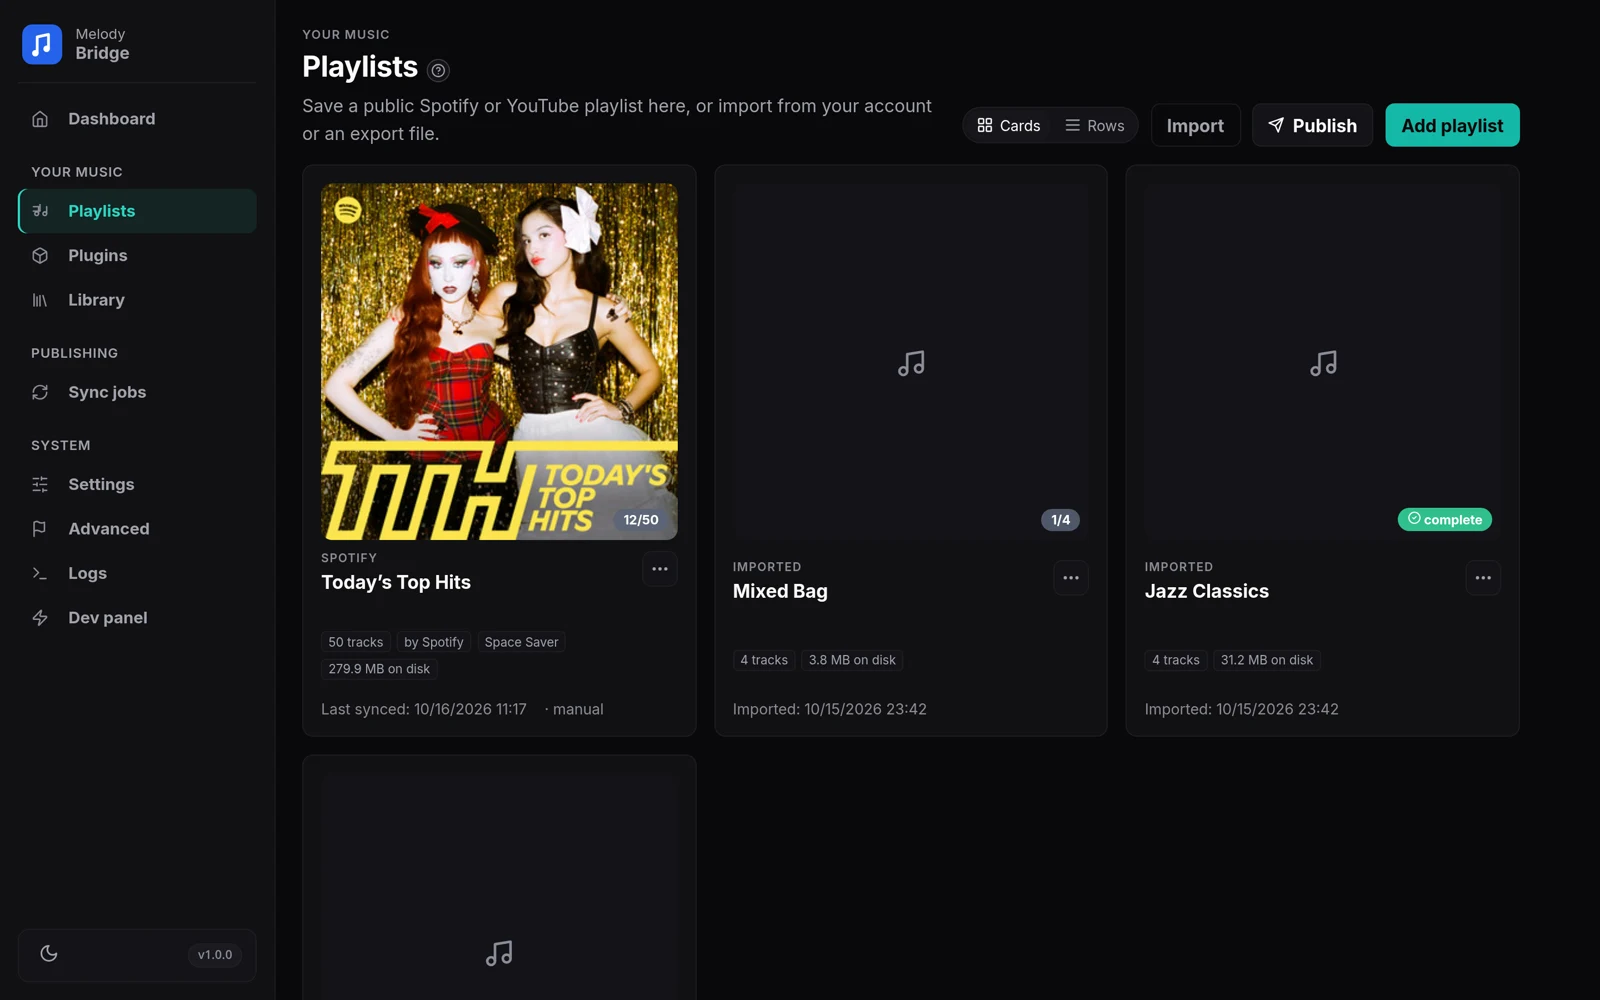
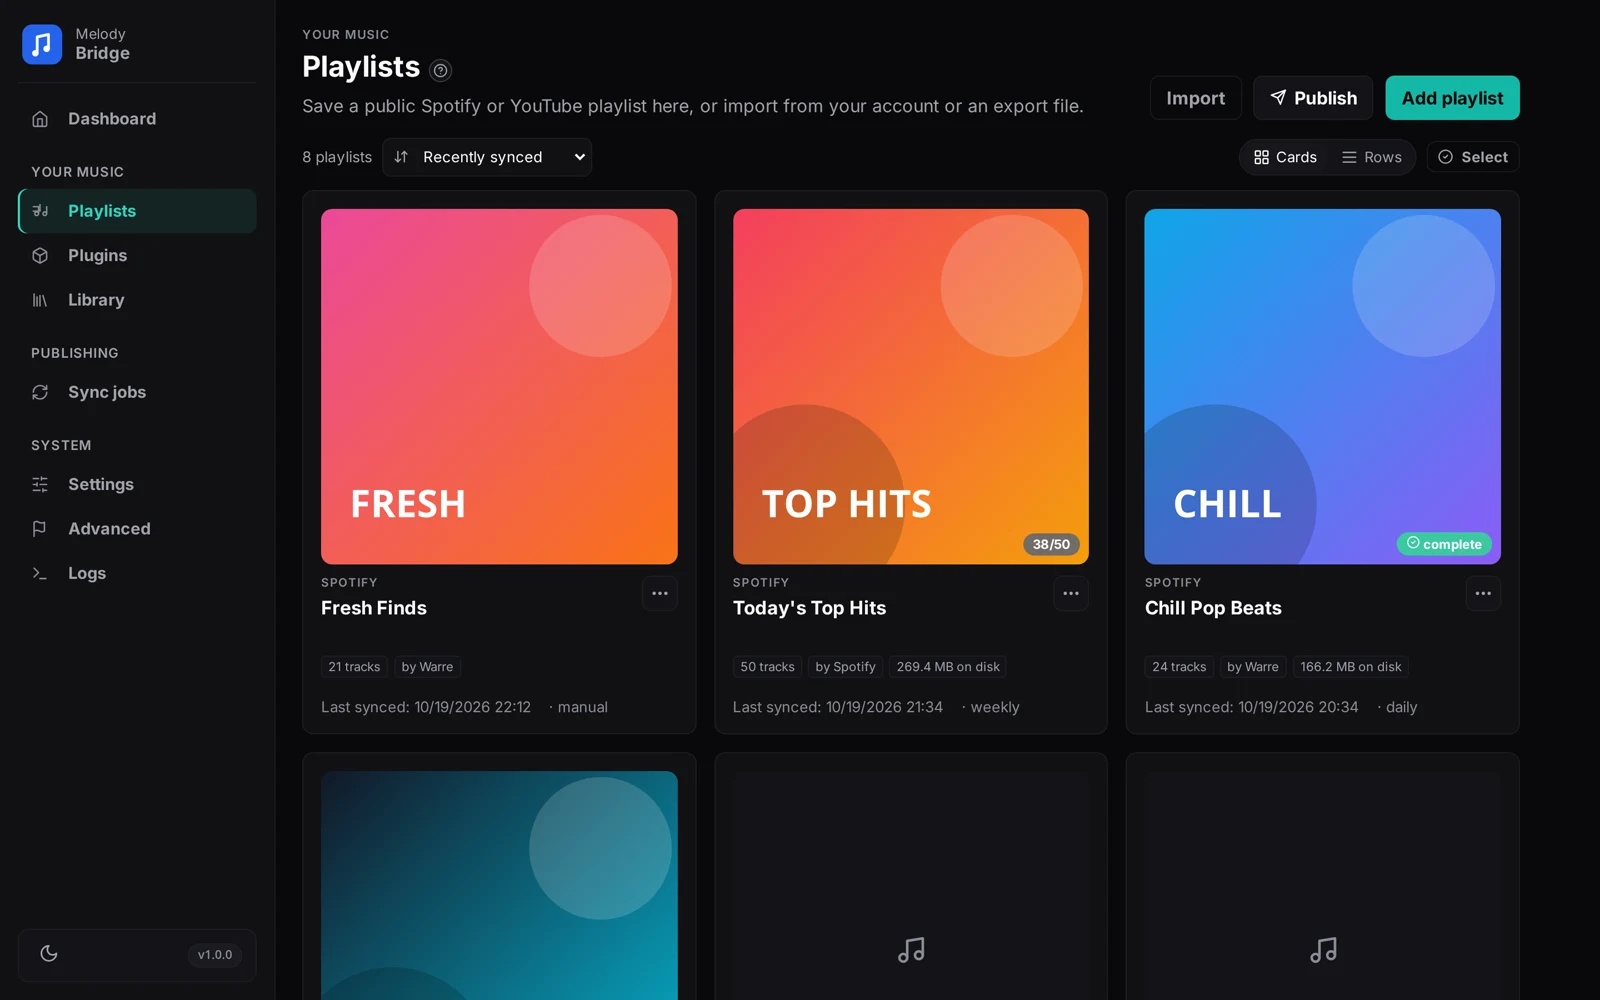
docs: refresh playlist, publishing and sync job guidance
Update the quick publish steps, batch account imports, playlist page controls and sync job action menu, and refresh the screenshots those pages show.

diff --git a/docs/publishing.md b/docs/publishing.md
@@ -11,18 +11,20 @@ anything.
 
 ## Publish playlists in a few clicks
 
-The **Publish** button on the Playlists page is the short path. It asks two
-questions: which playlists, and which media server profiles they should go to.
-Every ticked playlist becomes its own job, named after the playlist, with a
-Manual schedule and the profiles you ticked as its targets. Playlists that
-already have a job are left out of the list, so the same playlist is not
-offered twice; creating the jobs re-reads the list, and anything deleted in
-the meantime is named in the result instead of becoming a dangling target.
+The **Publish** button on the Playlists page is the short path. Tick the
+playlists, choose where they go, and pick one schedule. Every ticked playlist
+becomes its own job, named after the playlist, with the targets and schedule you
+chose. **Send to** can be an M3U file, any number of media server profiles, or
+both. The M3U files land in the **Playlist output folder** setting, one per
+playlist. **Add profile** opens Settings, Media servers, when you need another
+target first.
 
-This flow deliberately skips the wizard's options: no M3U target, no path
-remaps, no schedule, no per-job user. That is the trade for the two-click
-setup, and the dialog says so. Every job it creates opens on the Sync jobs
-page like any other, where **Edit** gives you the full wizard.
+Playlists that already have a job are left out of the list, so the same playlist
+is not offered twice; creating the jobs re-reads the list, and anything deleted
+in the meantime is named in the result instead of becoming a dangling target.
+
+The quick path still skips path remaps and the per-job Jellyfin user. Open a
+created job with **Edit** on the Sync jobs page for those.
 
 <img src="/screens/publish.webp" alt="Quick publish dialog on the Playlists page" width="800">
 
@@ -116,13 +118,14 @@ other 30 have no local file yet, usually because they were never downloaded.
 **Log** breaks the run down per track, so you can see which ones are missing.
 :::
 
-**Log** shows the last 20 runs with their result and per-track detail. **Run
-now** triggers a job immediately, **Edit** changes it, and **Delete** removes
-the job and its run history without touching playlists or music files.
+**Run now** triggers a job immediately. The **...** menu opens **Log** with the
+last 20 runs and per-track detail, **Edit** for the wizard, and **Delete**,
+which removes the job and its run history without touching playlists or music
+files.
 
-Many jobs in one list? The **Cards** / **Rows** switch at the top changes the
-layout; the choice sticks. Rows fit more jobs on screen, cards have room for
-the last run summary.
+Many jobs in one list? The **Cards** / **Rows** switch above the list changes
+the layout; the choice sticks. Rows fit more jobs on screen, cards have room
+for the last run summary and its progress.
 
 ## Liked songs become favorites
 

diff --git a/docs/reference.md b/docs/reference.md
@@ -136,6 +136,25 @@ accent color picker, **Export logs** (the most recent 1000 entries as a text
 file), and the database section: **Export zip** makes a snapshot, and importing
 one replaces the database. After a database import, restart the app.
 
+## The Playlists page
+
+Saved playlists show as cards or compact rows; the switch sits above the list
+and the choice is remembered. The sort control offers **Recently synced**,
+**Name A-Z** and **Most tracks**, also remembered for the next visit.
+
+**Select** turns the list into selection mode: tick several playlists, then
+**Refresh**, **Download missing**, **Export CSV** or **Remove**. A bulk export
+of more than one playlist is a single zip with one CSV per playlist, because
+browsers block a burst of downloads. A bulk remove deletes the playlists and
+their track lists but leaves the music files on disk. File imports cannot
+refresh; re-import their file instead.
+
+Each card and row has a **...** menu with the same actions for one playlist.
+**Remove** there offers the usual choice to delete the downloaded files too.
+Next to the menu, the **Publish** button creates sync jobs for several playlists
+at once with one schedule and one set of targets. See
+[Publishing playlists](/publishing#publish-playlists-in-a-few-clicks).
+
 ## Playlist options
 
 Open a playlist card and the left panel holds everything specific to it:

diff --git a/docs/accounts.md b/docs/accounts.md
@@ -46,6 +46,11 @@ archive becomes one playlist. Each CSV becomes its own playlist, named after
 the file, so different exports stay apart. Re-uploading a file refreshes that
 playlist instead of duplicating it.
 
+The account playlist list has a checkbox on every row and an **Import selected**
+button. Import several playlists in one pass; when it finishes, a summary lists
+each saved playlist with an **Edit playlist** link. Open the ones you want to
+review instead of landing on the first import.
+
 Each provider has its own redirect URI, differing only in a `?provider=` marker
 that tells the callback which login to finish. Copy the exact URL from the
 Settings page, query string included, because both platforms match it
